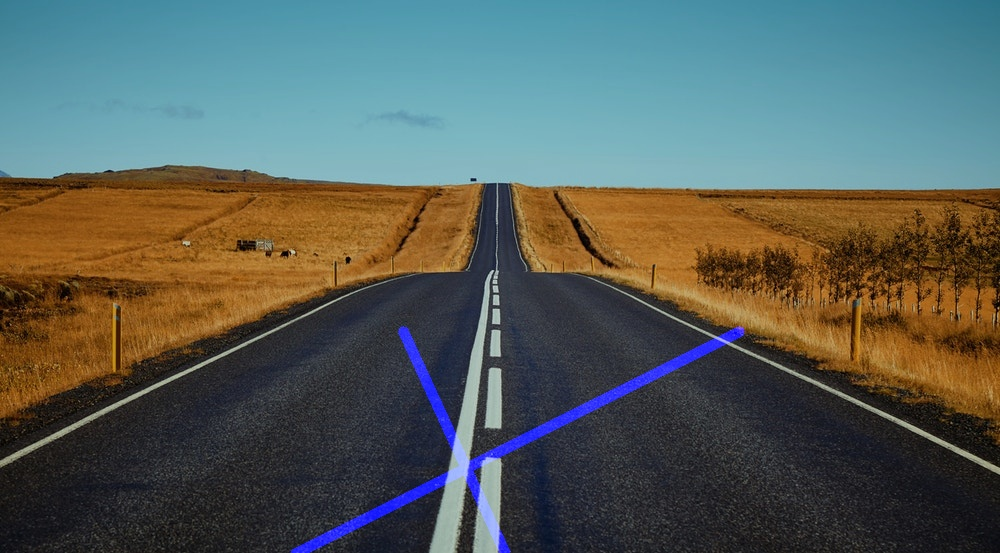
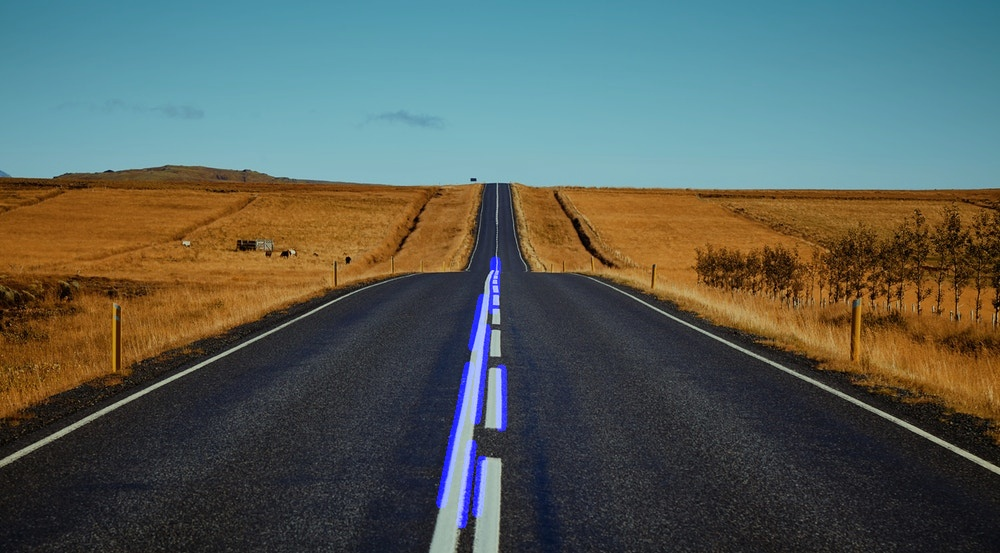
original compared with averaged lines

Changed region(s): [[0.279, 0.4611, 0.744, 1.0]]

diff --git a/opencv/test9.py b/opencv/test9.py
@@ -2,7 +2,7 @@ import cv2
 import numpy as np
 import matplotlib.pyplot as plt
 
-print ('try git-plus')
+#print ('try git-plus')
 
 def canny(image):
 	gray = cv2.cvtColor(image,cv2.COLOR_RGB2GRAY)
@@ -64,9 +64,10 @@ lines = cv2.HoughLinesP(cropped_image, 2, np.pi/180, 100, np.array([]), minLineL
 averaged_lines = average_slope_intercept(lane_image, lines)
 
 line_image = display_lines(lane_image, averaged_lines)
+#line_image = display_lines(lane_image, lines)
 combo_image = cv2.addWeighted(lane_image, 0.8, line_image, 1, 1)
 
-cv2.imwrite('lane1-result.jpg', combo_image)
+cv2.imwrite('lane1-result_averaged.jpg', combo_image)
 
 #cv2.imshow('result', combo_image)
 #cv2.waitKey(0)
